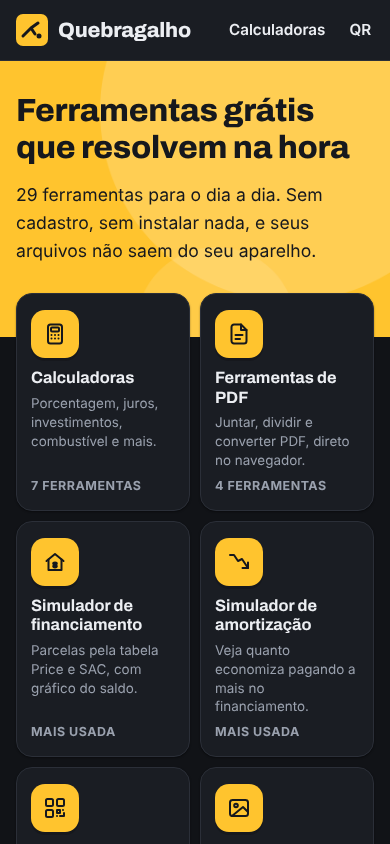
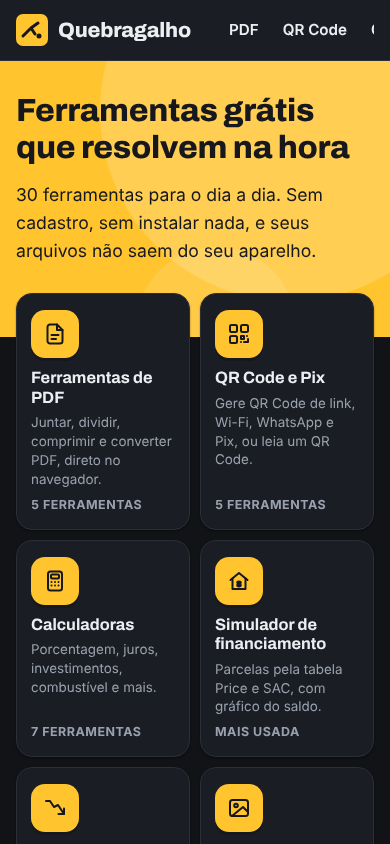
Página inicial e menu: PDF primeiro, depois QR Code
- Blocos: Ferramentas de PDF, QR Code e Pix (um bloco só, no lugar de 'Gerador de QR Code' + 'QR Code'),
  e o resto na ordem anterior
- Menu (secoes.ts) na mesma ordem: PDF, QR Code, Calculadoras...

Claude-Session: https://claude.ai/code/session_019WSkquKvYqrnJggS338TJo

diff --git a/src/data/secoes.ts b/src/data/secoes.ts
@@ -10,12 +10,12 @@ export interface Secao {
 
 // A ordem aqui é a ordem do menu e da home.
 export const SECOES: Secao[] = [
-  { slug: 'calculadoras', nome: 'Calculadoras', resumo: 'Dinheiro, trabalho, casa e datas',
-    titulo: 'Calculadoras online grátis', descricao: 'Calculadoras de porcentagem, juros, financiamento, salário, combustível, obra e datas. Simples, grátis e sem cadastro.' },
-  { slug: 'qr-code', nome: 'QR Code', resumo: 'Link, Wi-Fi, WhatsApp e Pix',
-    titulo: 'Gerador de QR Code grátis', descricao: 'Crie QR Code grátis para link, texto, Wi-Fi, WhatsApp e Pix. Baixe em PNG ou SVG, sem cadastro e sem marca d\'água.' },
   { slug: 'pdf', nome: 'PDF', resumo: 'Juntar, dividir, converter',
     titulo: 'Ferramentas de PDF grátis', descricao: 'Junte, divida, gire e converta PDFs direto no navegador. Seus arquivos não são enviados para nenhum servidor.' },
+  { slug: 'qr-code', nome: 'QR Code', resumo: 'Link, Wi-Fi, WhatsApp e Pix',
+    titulo: 'Gerador de QR Code grátis', descricao: 'Crie QR Code grátis para link, texto, Wi-Fi, WhatsApp e Pix. Baixe em PNG ou SVG, sem cadastro e sem marca d\'água.' },
+  { slug: 'calculadoras', nome: 'Calculadoras', resumo: 'Dinheiro, trabalho, casa e datas',
+    titulo: 'Calculadoras online grátis', descricao: 'Calculadoras de porcentagem, juros, financiamento, salário, combustível, obra e datas. Simples, grátis e sem cadastro.' },
   { slug: 'imagem', nome: 'Imagem', resumo: 'Comprimir, converter, recortar',
     titulo: 'Ferramentas de imagem grátis', descricao: 'Comprima, converta e redimensione imagens no navegador, sem enviar suas fotos para nenhum servidor.' },
   { slug: 'video', nome: 'Vídeo', resumo: 'Cortar, comprimir, extrair áudio',

diff --git a/src/data/destaques.ts b/src/data/destaques.ts
@@ -7,13 +7,12 @@ export type Destaque =
   | { tipo: 'ferramenta'; secao: string; slug: string; icone: string; descricao: string };
 
 export const DESTAQUES: Destaque[] = [
-  { tipo: 'secao', slug: 'calculadoras', descricao: 'Porcentagem, juros, investimentos, combustível e mais.' },
   { tipo: 'secao', slug: 'pdf', nome: 'Ferramentas de PDF', descricao: 'Juntar, dividir, comprimir e converter PDF, direto no navegador.' },
+  { tipo: 'secao', slug: 'qr-code', nome: 'QR Code e Pix', descricao: 'Gere QR Code de link, Wi-Fi, WhatsApp e Pix, ou leia um QR Code.' },
+  { tipo: 'secao', slug: 'calculadoras', descricao: 'Porcentagem, juros, investimentos, combustível e mais.' },
   { tipo: 'ferramenta', secao: 'calculadoras', slug: 'financiamento', icone: 'financiamento', descricao: 'Parcelas pela tabela Price e SAC, com gráfico do saldo.' },
   { tipo: 'ferramenta', secao: 'calculadoras', slug: 'amortizacao', icone: 'amortizacao', descricao: 'Veja quanto economiza pagando a mais no financiamento.' },
-  { tipo: 'ferramenta', secao: 'qr-code', slug: 'gerador', icone: 'qr-code', descricao: 'QR Code grátis para link, texto, Wi-Fi ou WhatsApp.' },
   { tipo: 'secao', slug: 'imagem', descricao: 'Comprima, converta, recorte e redimensione fotos.' },
-  { tipo: 'secao', slug: 'qr-code', descricao: 'Gerar e ler QR Code, inclusive Pix, Wi-Fi e WhatsApp.' },
   { tipo: 'secao', slug: 'conversores', descricao: 'Unidades de medida e números por extenso.' },
   { tipo: 'ferramenta', secao: 'documentos', slug: 'assinatura-de-email', icone: 'documentos', descricao: 'Assinatura profissional com foto, logo e redes sociais.' },
   { tipo: 'secao', slug: 'texto', descricao: 'Contador de caracteres e outras ferramentas de texto.' },
